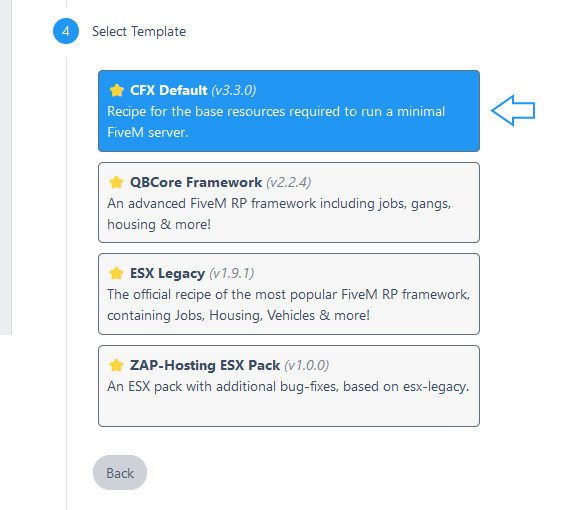
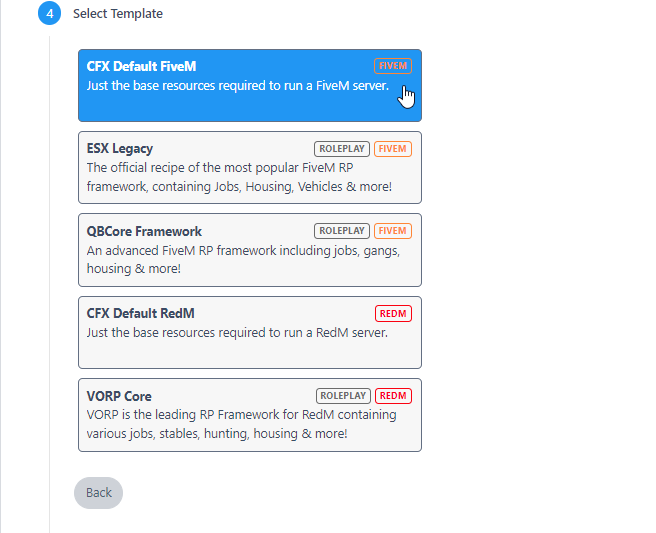
feat(tx/img): update UI

Changed region(s): [[0.0594, 0.0, 0.951, 0.8529], [0.0892, 0.8824, 0.2675, 0.9706]]

diff --git a/content/docs/server-manual/setting-up-a-server-txadmin.md b/content/docs/server-manual/setting-up-a-server-txadmin.md
@@ -27,14 +27,14 @@ description: >
    ![pic](/server-setup/windows-step2-2.png)
 3. Log in to your account on [Cfx.re](https://forum.cfx.re/) in this tab and then click `Yes, Allow`.<br>
    ![pic](/server-setup/windows-step2-3.png)
-4. Set a password to log in to your server's admin page.<br>
+4. Create a password to sign up to your server's admin page.<br>
    ![pic](/server-setup/windows-step2-4.png)
 5. Click 'Next'.<br>
    ![pic](/server-setup/windows-step2-5.png)
 6. Type a name for your server and click 'Next'.
 7. Select 'Popular Recipes'.<br>
    ![pic](/server-setup/windows-step2-7.png)
-8. Pick the 'CFX Default' template for now. Other templates may exist, but some will require a database server.<br>
+8. Pick the 'CFX Default FiveM' template for now. Other templates may exist, but some will require a database server.<br>
    ![pic](/server-setup/windows-step2-8.png)
 9. Click 'Save' or select another path.
 10. Go to the 'Recipe Deployer'.<br>
